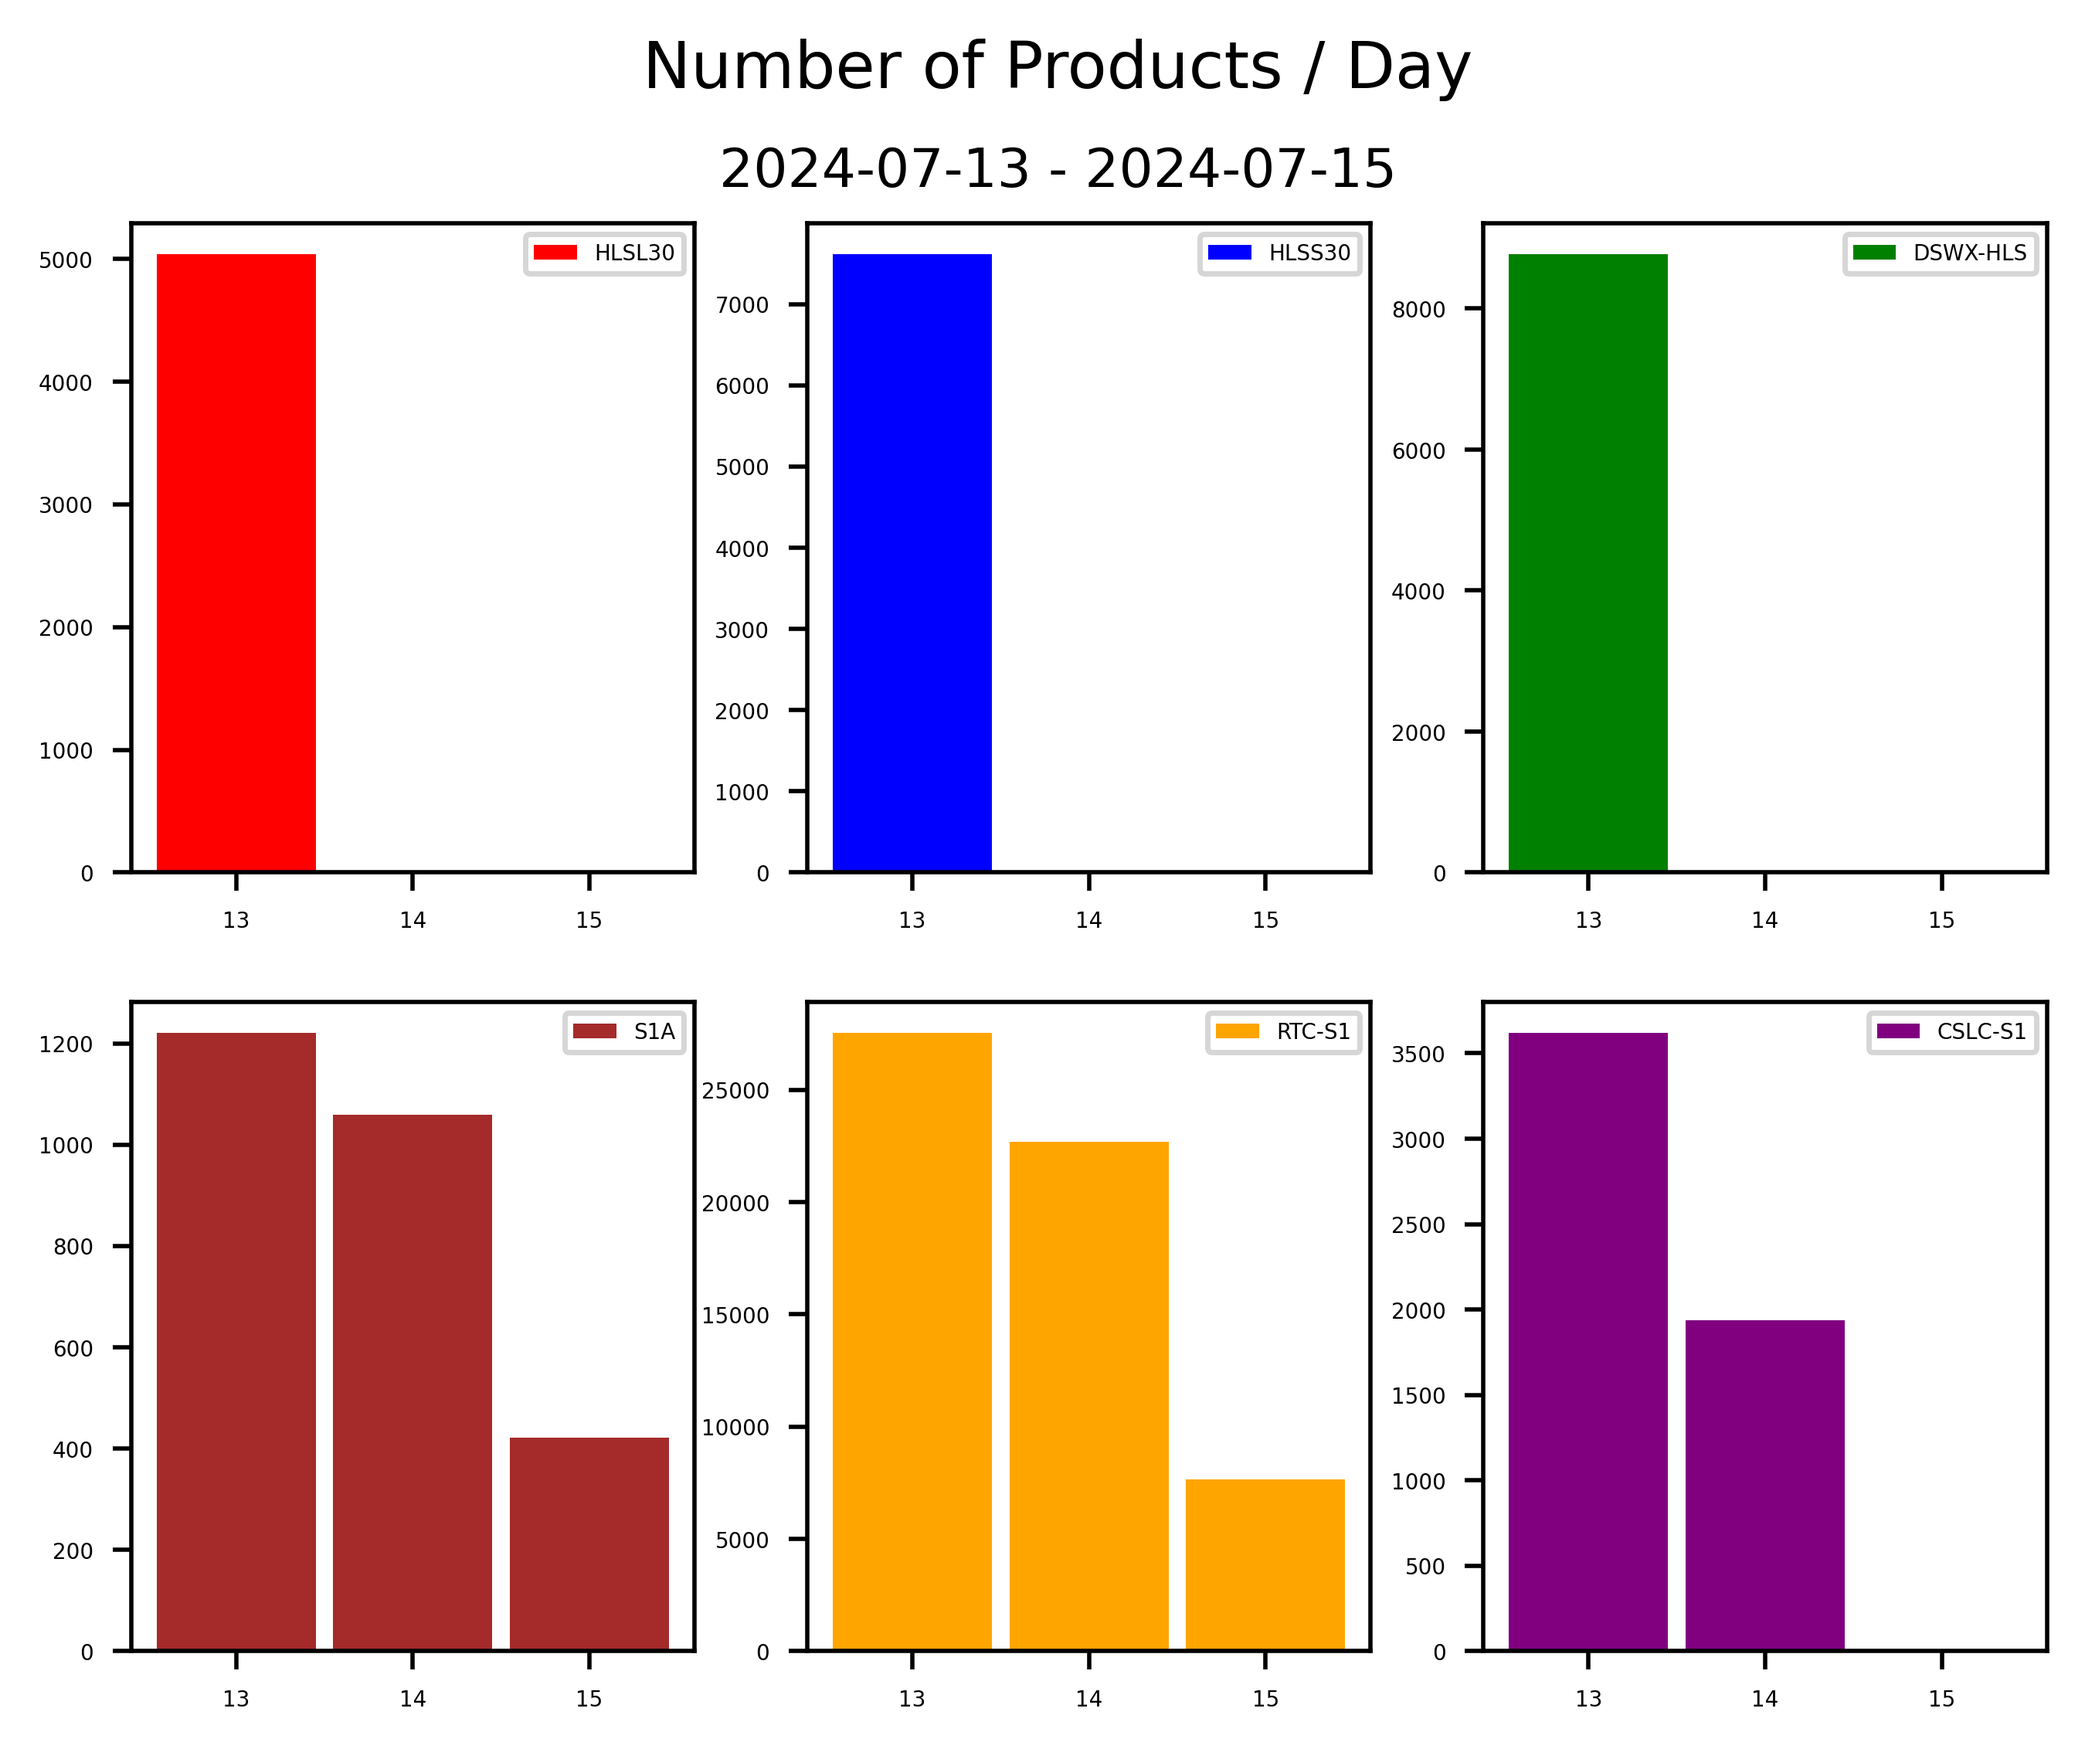
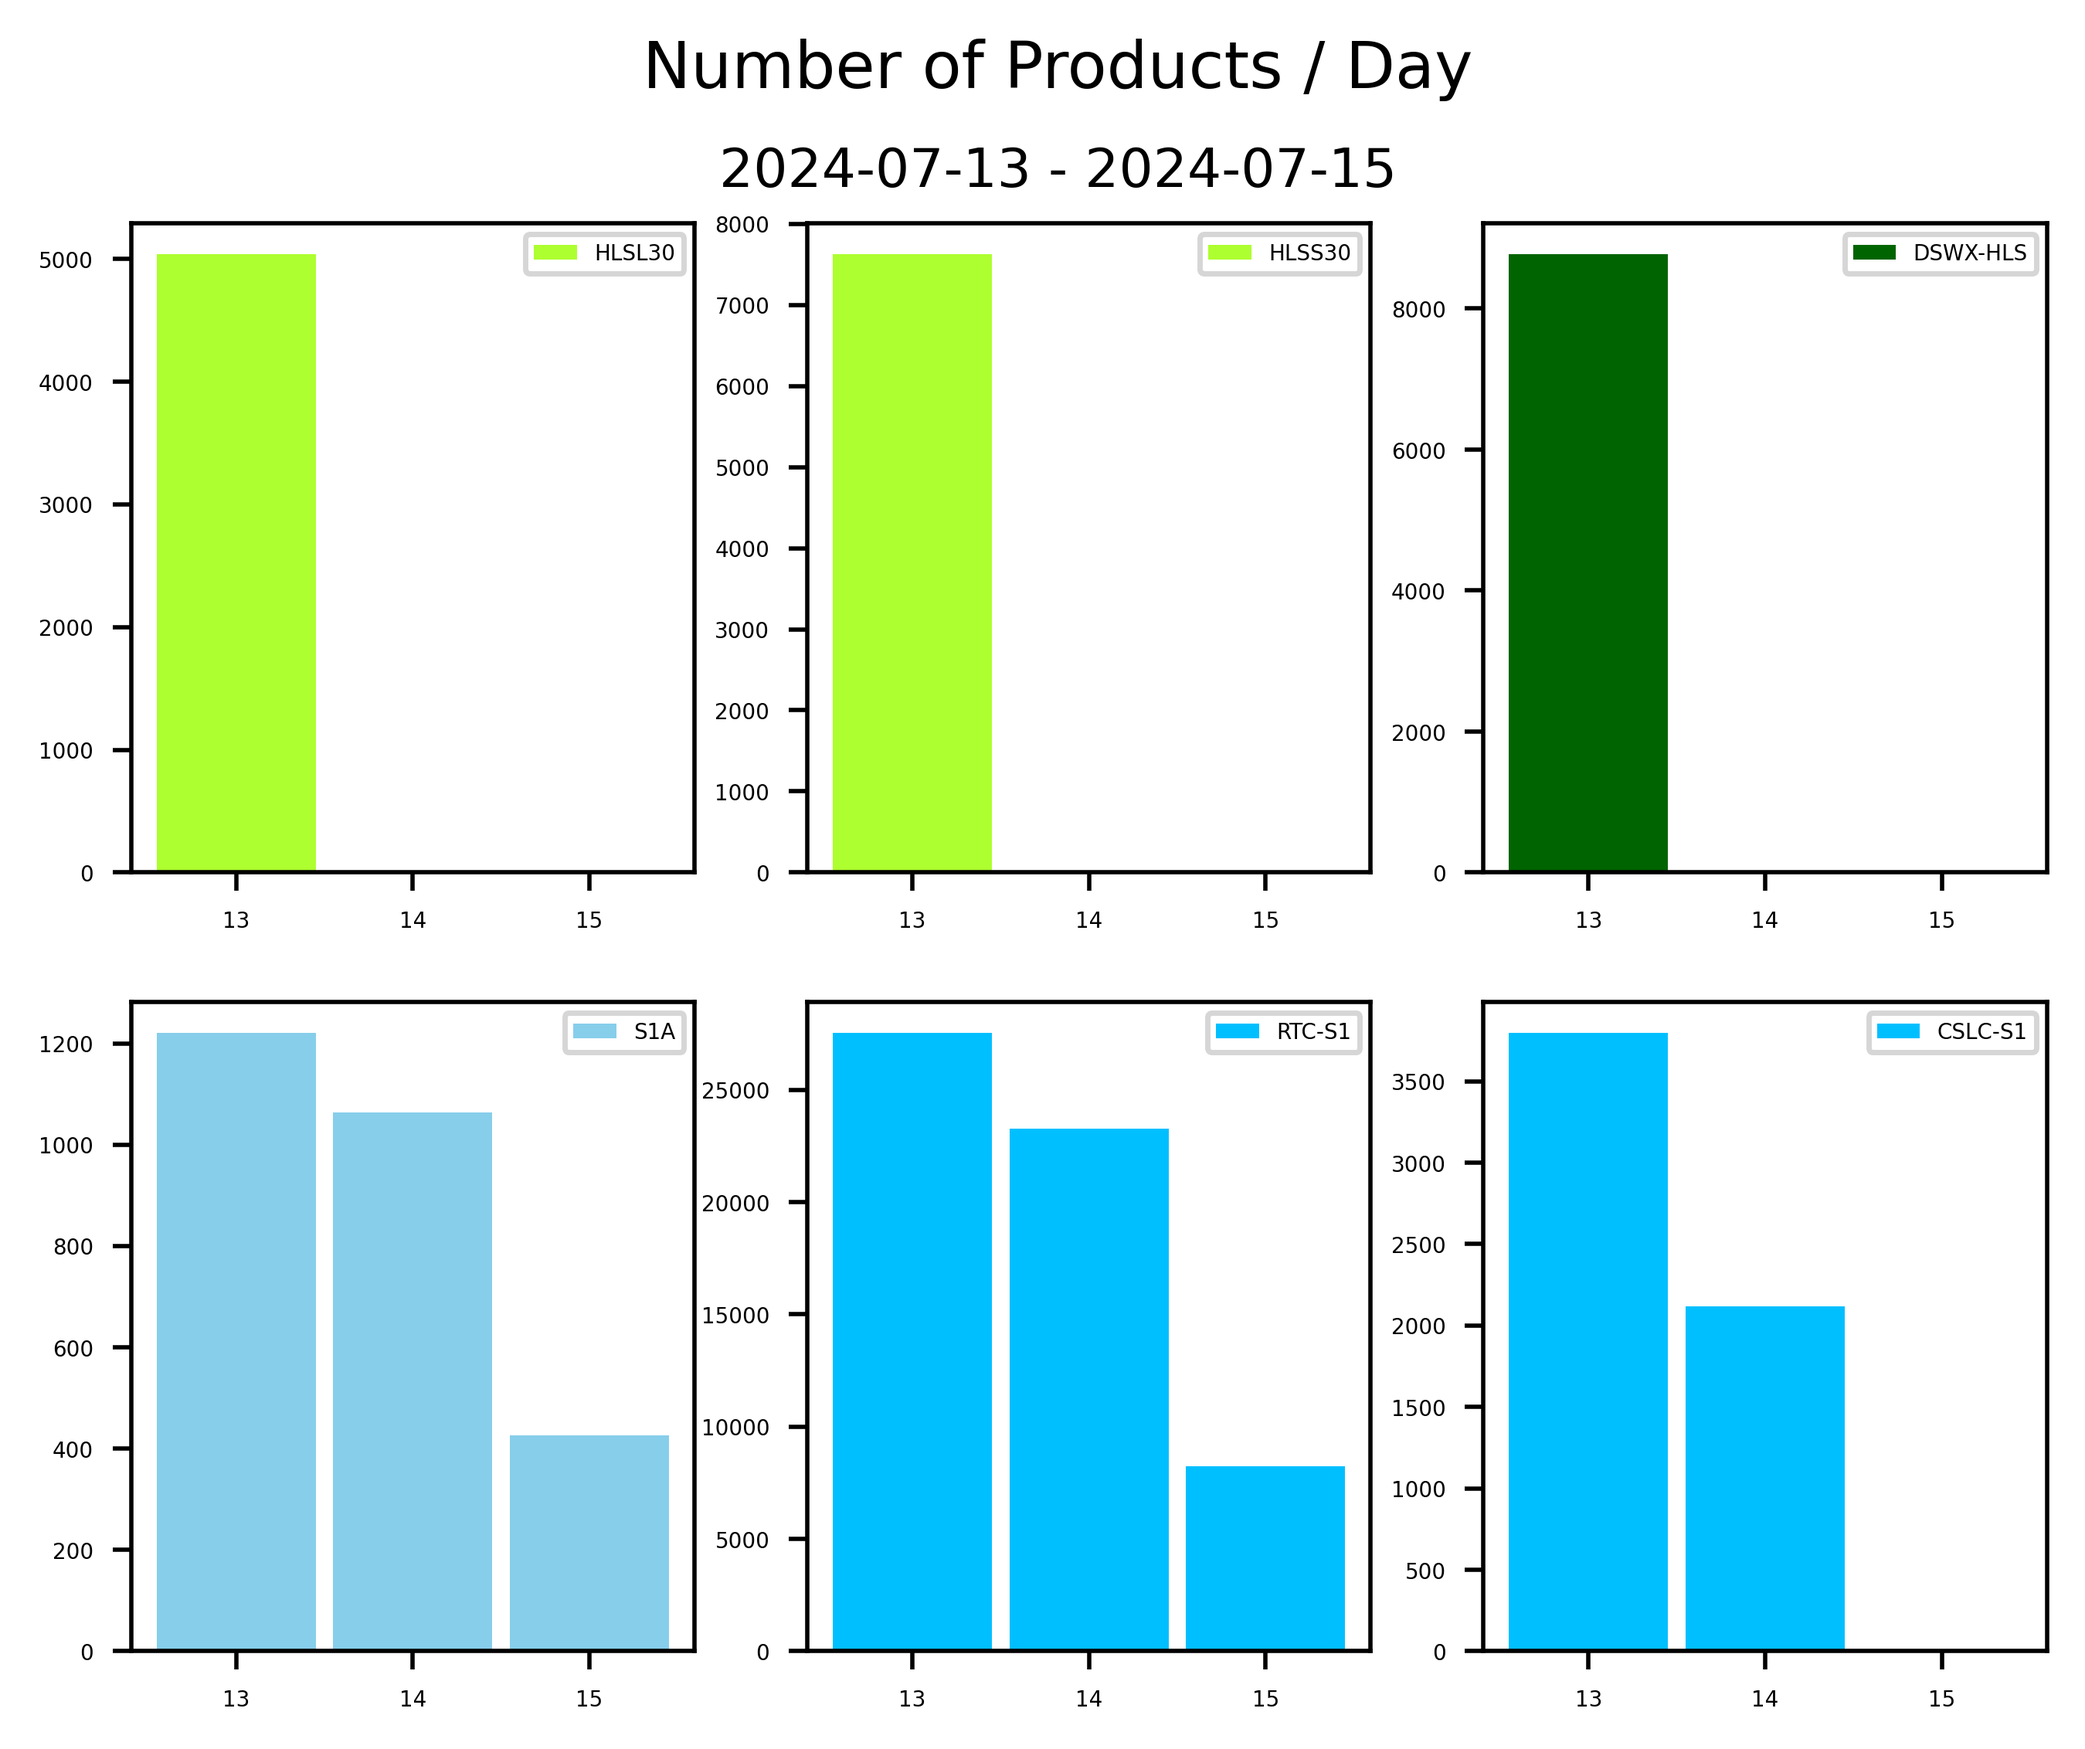
Changing colors

diff --git a/monitoring/opera_daily_products_query.py b/monitoring/opera_daily_products_query.py
@@ -10,12 +10,13 @@ from cmr import GranuleQuery
 import matplotlib.pyplot as plt
 logging.basicConfig(level=logging.INFO)
 
-NUM_DAYS = 3
+NUM_DAYS = 10
 COLLECTIONS = ["HLSL30", "HLSS30", "OPERA_L3_DSWX-HLS_V1",
                "SENTINEL-1A_SLC", "OPERA_L2_RTC-S1_V1", "OPERA_L2_CSLC-S1_V1"]
 LABELS = ["HLSL30", "HLSS30", "DSWX-HLS",
           "S1A", "RTC-S1", "CSLC-S1"]
-COLORS = ["red", "blue", "green", "brown", "orange", "purple"]
+COLORS = ["greenyellow", "greenyellow", "darkgreen",
+          "skyblue", "deepskyblue", "deepskyblue"]
 
 today = date.today()
 dates_list: list[date] = [today - timedelta(days=day) for day in range(NUM_DAYS)]
